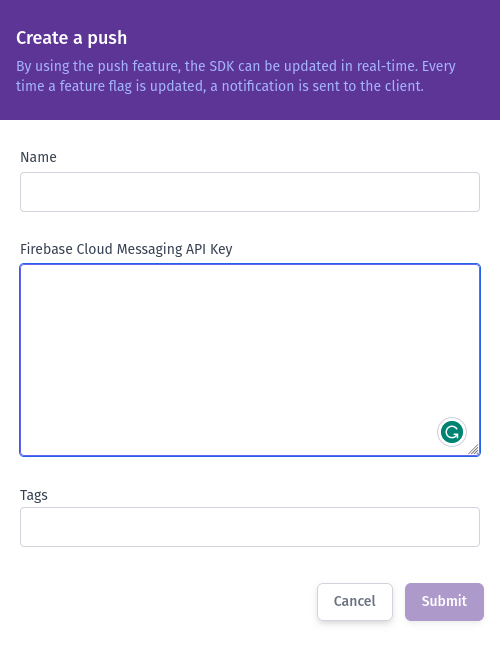
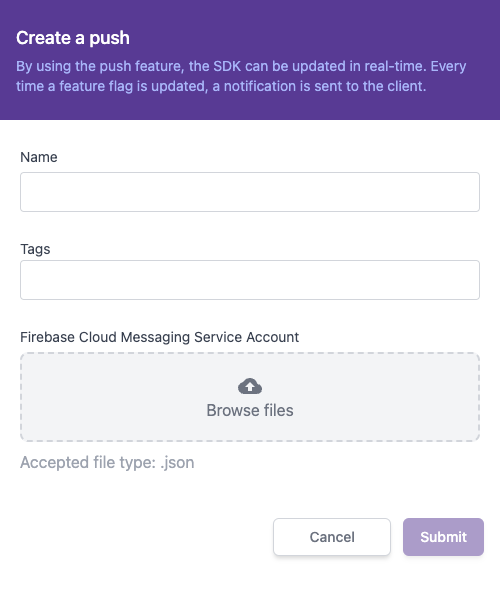
docs: update fcm integration docs for v1 api (#121)

diff --git a/docs/sdk/client-side/android/index.md b/docs/sdk/client-side/android/index.md
@@ -353,14 +353,24 @@ You don't need to call this method manually in regular use because the SDK is po
 
 ### Updating user evaluations in real-time
 
-The Bucketeer SDK supports FCM ([Firebase Cloud Messaging](https://firebase.google.com/docs/cloud-messaging)).<br />
-Every time you change a feature flag on the admin console, Bucketeer will send notifications using the FCM API to notify the client so that you can update the evaluations in real-time.
+Bucketeer SDK supports FCM ([Firebase Cloud Messaging](https://firebase.google.com/docs/cloud-messaging)).<br />
+Every time you change a feature flag on the admin console, Bucketeer will send a silent notification using the FCM V1 API to notify the client so that you can update the evaluations in real-time.
 
-:::note
+:::info Before using
+1. You need to register your FCM Service Account on the admin console. Check the [Pushes](/integration/pushes) section to learn how to do it.
+2. This feature may not work if the end-user has the notification disabled.
+:::
 
-1. You need to register your FCM API Key on the admin console. Check the [Pushes](/integration/pushes) section to learn how to do it.
-2. This feature may not work if the user has the notification disabled.
+:::info Subscription Topic
+When using the FCM integration, your applications must subscribe to Bucketeer's topic, so they can receive notifications.<br />
 
+The topic varies depending on the feature flag tag.<br />
+E.g.: **bucketeer-\<YOUR_FEATURE_FLAG_TAG\>**
+
+The tag in the topic is the same tag used when initializing the client SDK.<br />
+If you have a flag using the `android` tag, the topic will be **bucketeer-android**.
+
+**Please be aware that the tag is case-sensitive.**
 :::
 
 Assuming you already have the FCM implementation in your application.
@@ -369,10 +379,24 @@ Assuming you already have the FCM implementation in your application.
 <TabItem value="kt" label="Kotlin">
 
 ```kotlin showLineNumbers
+// In order to receive notifications you must subscribe to the topic
+private fun subscribeToTopic() {
+  val tag = getTag() // The same tag used when initializing the client SDK
+  Firebase.messaging
+    .subscribeToTopic("bucketeer-$tag")
+    .addOnCompleteListener { task ->
+      var msg = "Subscribed successfully"
+      if (!task.isSuccessful) {
+        msg = "Failed to subscribe"
+      }
+      Log.d(TAG, msg)
+    }
+}
+
 override fun onMessageReceived(remoteMessage: RemoteMessage?) {
   remoteMessage?.data?.also { data ->
     val isFeatureFlagUpdated = data["bucketeer_feature_flag_updated"]
-    if (isFeatureFlagUpdated) {
+    if (isFeatureFlagUpdated == "true") {
       // The callback will return without waiting until the fetching variation process finishes
       val timeout = 1000 // Default is 5 seconds
 

diff --git a/docs/sdk/client-side/flutter/index.md b/docs/sdk/client-side/flutter/index.md
@@ -349,14 +349,24 @@ You don't need to call this method manually in regular use because the SDK is po
 
 ### Updating user evaluations in real-time
 
-The Bucketeer SDK supports FCM ([Firebase Cloud Messaging](https://firebase.google.com/docs/cloud-messaging)).<br />
-Every time you change a feature flag on the admin console, Bucketeer will send notifications using the FCM API to notify the client so that you can update the evaluations in real-time.
+Bucketeer SDK supports FCM ([Firebase Cloud Messaging](https://firebase.google.com/docs/cloud-messaging)).<br />
+Every time you change a feature flag on the admin console, Bucketeer will send a silent notification using the FCM V1 API to notify the client so that you can update the evaluations in real-time.
 
-:::note
+:::info Before using
+1. You need to register your FCM Service Account on the admin console. Check the [Pushes](/integration/pushes) section to learn how to do it.
+2. This feature may not work if the end-user has the notification disabled.
+:::
 
-1. You need to register your FCM API Key on the admin console. Check the [Pushes](/integration/pushes) section to learn how to do it.
-2. This feature may not work if the user has the notification disabled.
+:::info Subscription Topic
+When using the FCM integration, your applications must subscribe to Bucketeer's topic, so they can receive notifications.<br />
 
+The topic varies depending on the feature flag tag.<br />
+E.g.: **bucketeer-\<YOUR_FEATURE_FLAG_TAG\>**
+
+The tag in the topic is the same tag used when initializing the client SDK.<br />
+If you have a flag using the `flutter` tag, the topic will be **bucketeer-flutter**.
+
+**Please be aware that the tag is case-sensitive.**
 :::
 
 Assuming you already have the FCM implementation in your application.
@@ -365,9 +375,21 @@ Assuming you already have the FCM implementation in your application.
 <TabItem value="dart" label="Dart">
 
 ```dart showLineNumbers
+/// In order to receive notifications you must subscribe to the topic
+void subscribeToTopic() {
+  String tag = "flutter";
+  String topic = "bucketeer-$tag";
+
+  FirebaseMessaging.instance.subscribeToTopic(topic).then((_) {
+    debugPrint("Subscribed successfully to $topic topic");
+  }).catchError((error) {
+    debugPrint("Failed to subscribed to $topic topic. Error: $error");
+  });
+}
+
 FirebaseMessaging.onMessage.listen((RemoteMessage message) async {
   final isFeatureFlagUpdated = message.data["bucketeer_feature_flag_updated"]
-    if (isFeatureFlagUpdated) {
+    if (isFeatureFlagUpdated "true") {
       int timeout = 1000;
       const client = BKTClient.instance;
       final result = await client.fetchEvaluations(timeoutMillis: timeout);

diff --git a/docs/sdk/client-side/ios/index.md b/docs/sdk/client-side/ios/index.md
@@ -392,14 +392,24 @@ You don't need to call this method manually in regular use because the SDK is po
 
 ### Updating user evaluations in real-time
 
-The Bucketeer SDK supports FCM ([Firebase Cloud Messaging](https://firebase.google.com/docs/cloud-messaging)).<br />
-Every time you change a feature flag on the admin console, Bucketeer will send notifications using the FCM API to notify the client so that you can update the evaluations in real-time.
+Bucketeer SDK supports FCM ([Firebase Cloud Messaging](https://firebase.google.com/docs/cloud-messaging)).<br />
+Every time you change a feature flag on the admin console, Bucketeer will send a silent notification using the FCM V1 API to notify the client so that you can update the evaluations in real-time.
 
-:::note
+:::info Before using
+1. You need to register your FCM Service Account on the admin console. Check the [Pushes](/integration/pushes) section to learn how to do it.
+2. This feature may not work if the end-user has the notification disabled.
+:::
 
-1. You need to register your FCM API Key on the admin console. Check the [Pushes](/integration/pushes) section to learn how to do it.
-2. This feature may not work if the user has the notification disabled.
+:::info Subscription Topic
+When using the FCM integration, your applications must subscribe to Bucketeer's topic, so they can receive notifications.<br />
 
+The topic varies depending on the feature flag tag.<br />
+E.g.: **bucketeer-\<YOUR_FEATURE_FLAG_TAG\>**
+
+The tag in the topic is the same tag used when initializing the client SDK.<br />
+If you have a flag using the `ios` tag, the topic will be **bucketeer-ios**.
+
+**Please be aware that the tag is case-sensitive.**
 :::
 
 Assuming you already have the FCM implementation in your application, the following example shows how to handle silent push notifications.
@@ -408,6 +418,20 @@ Assuming you already have the FCM implementation in your application, the follow
 <TabItem value="swift" label="Swift">
 
 ```swift showLineNumbers
+```swift showLineNumbers
+// In order to receive notifications you must subscribe to the topic
+func subscribeToTopic() {
+    let tag = "ios"  // The same tag used when initializing the client SDK
+    let topic = "bucketeer-\(tag)"
+    Messaging.messaging().subscribe(toTopic: topic) { error in
+        if let error = error {
+            print("Failed to subscribed to \(topic) topic. Error: \(error)")
+        } else {
+            print("Subscribed successfully to \(topic) topic")
+        }
+    }
+}
+
 // Receiving notification in background
 func application(
   _ application: UIApplication,
